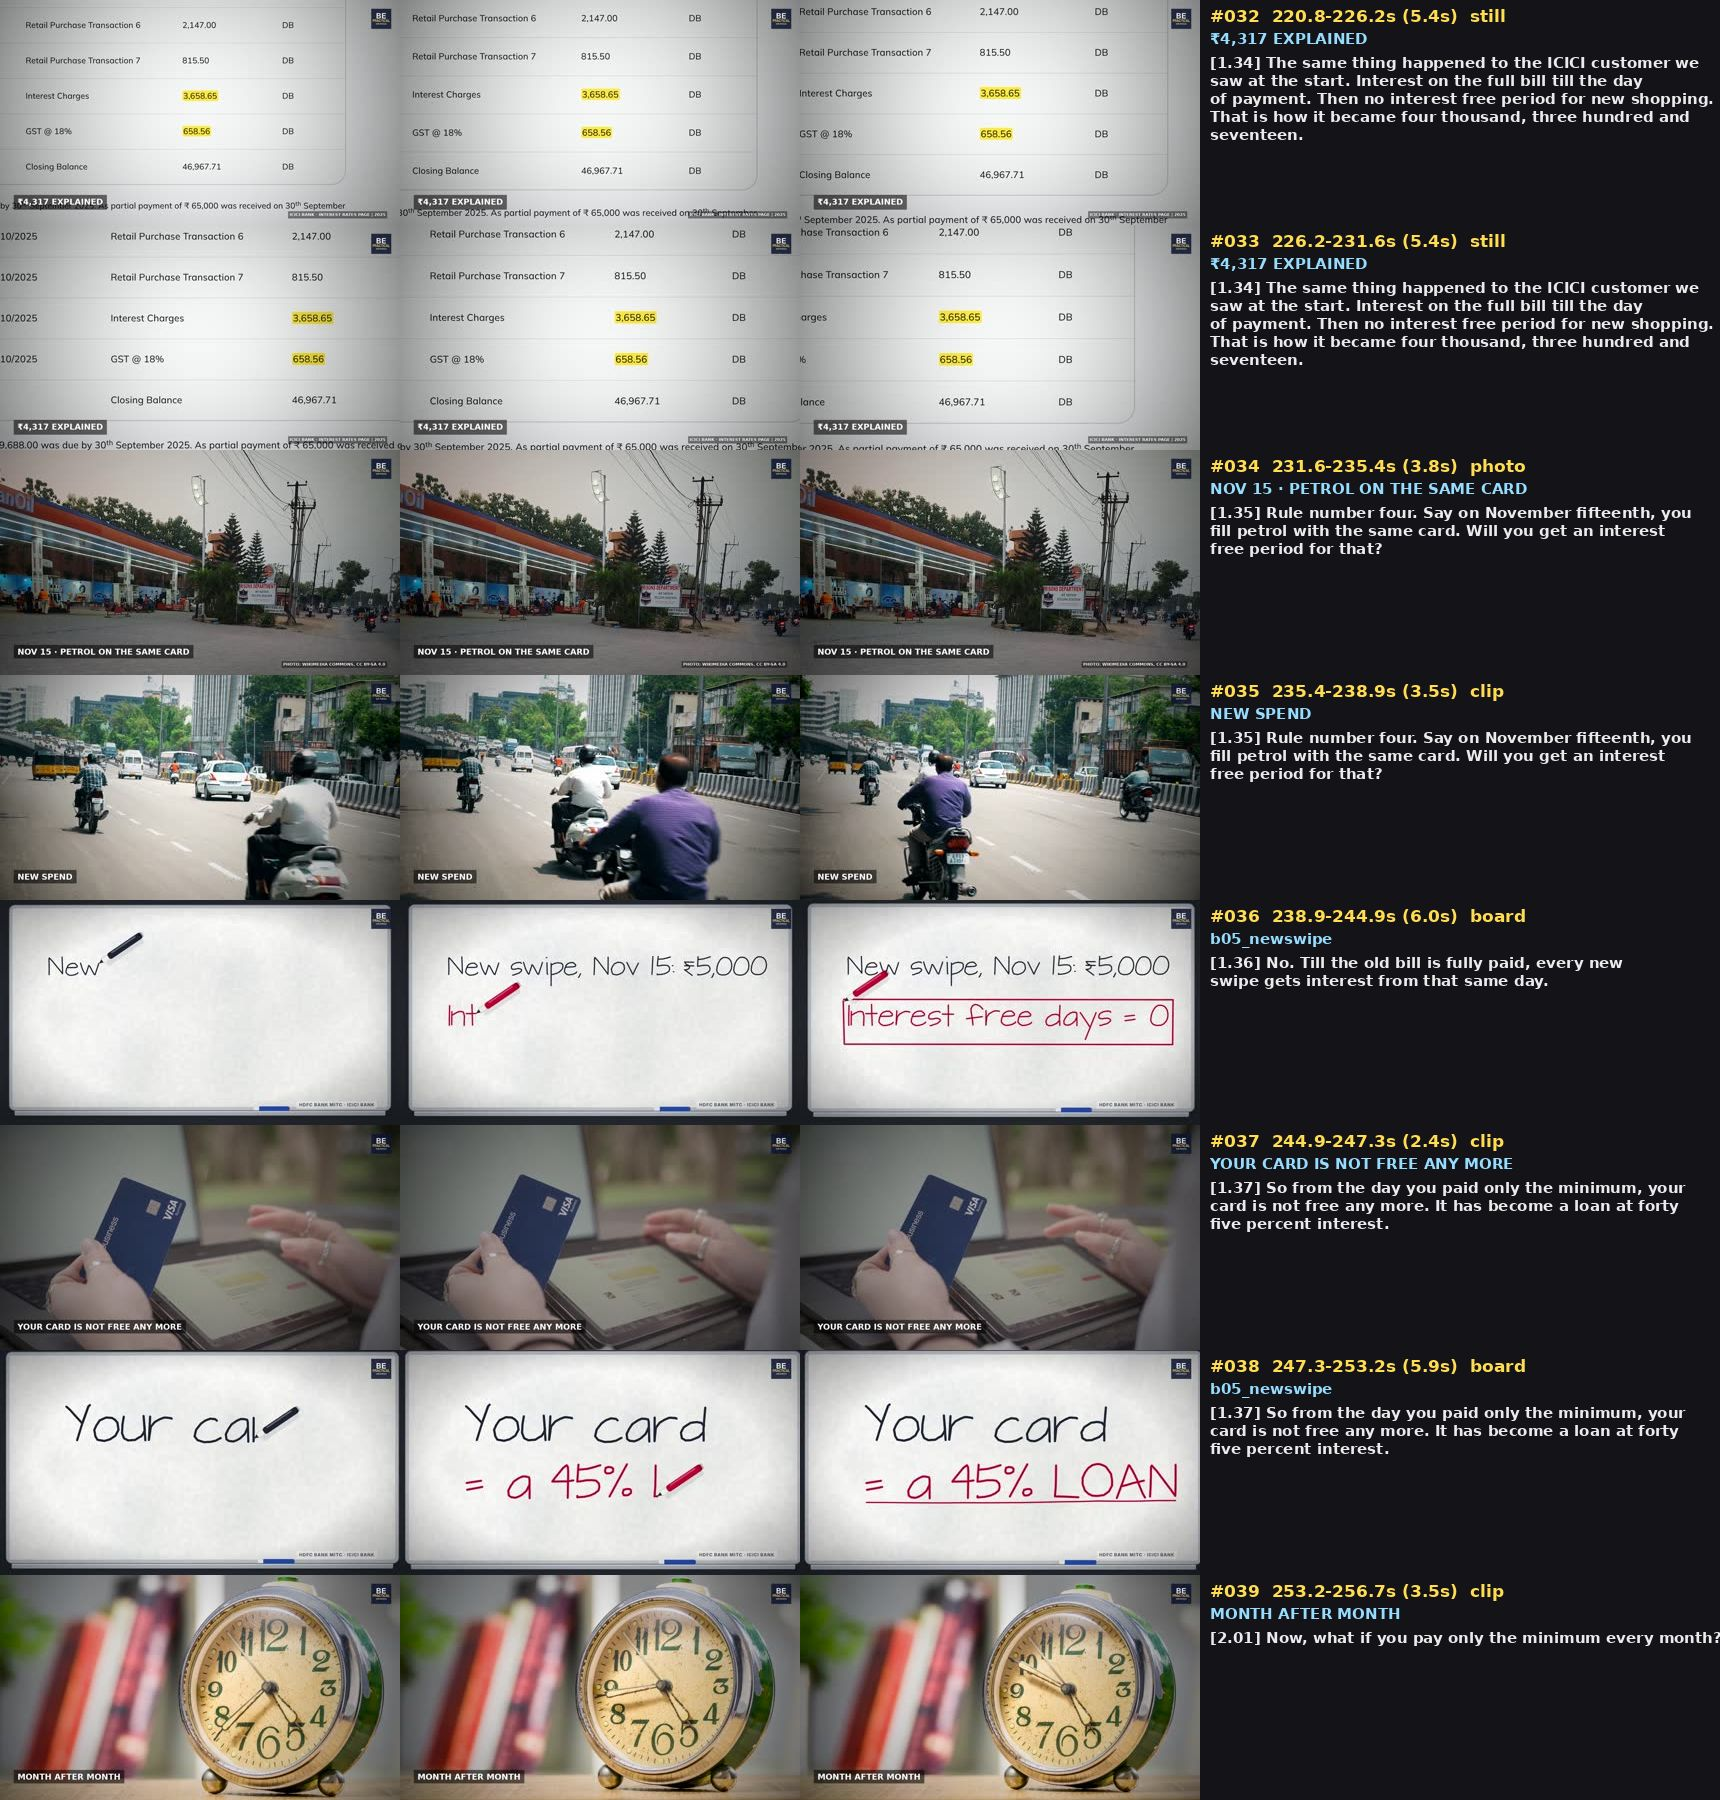
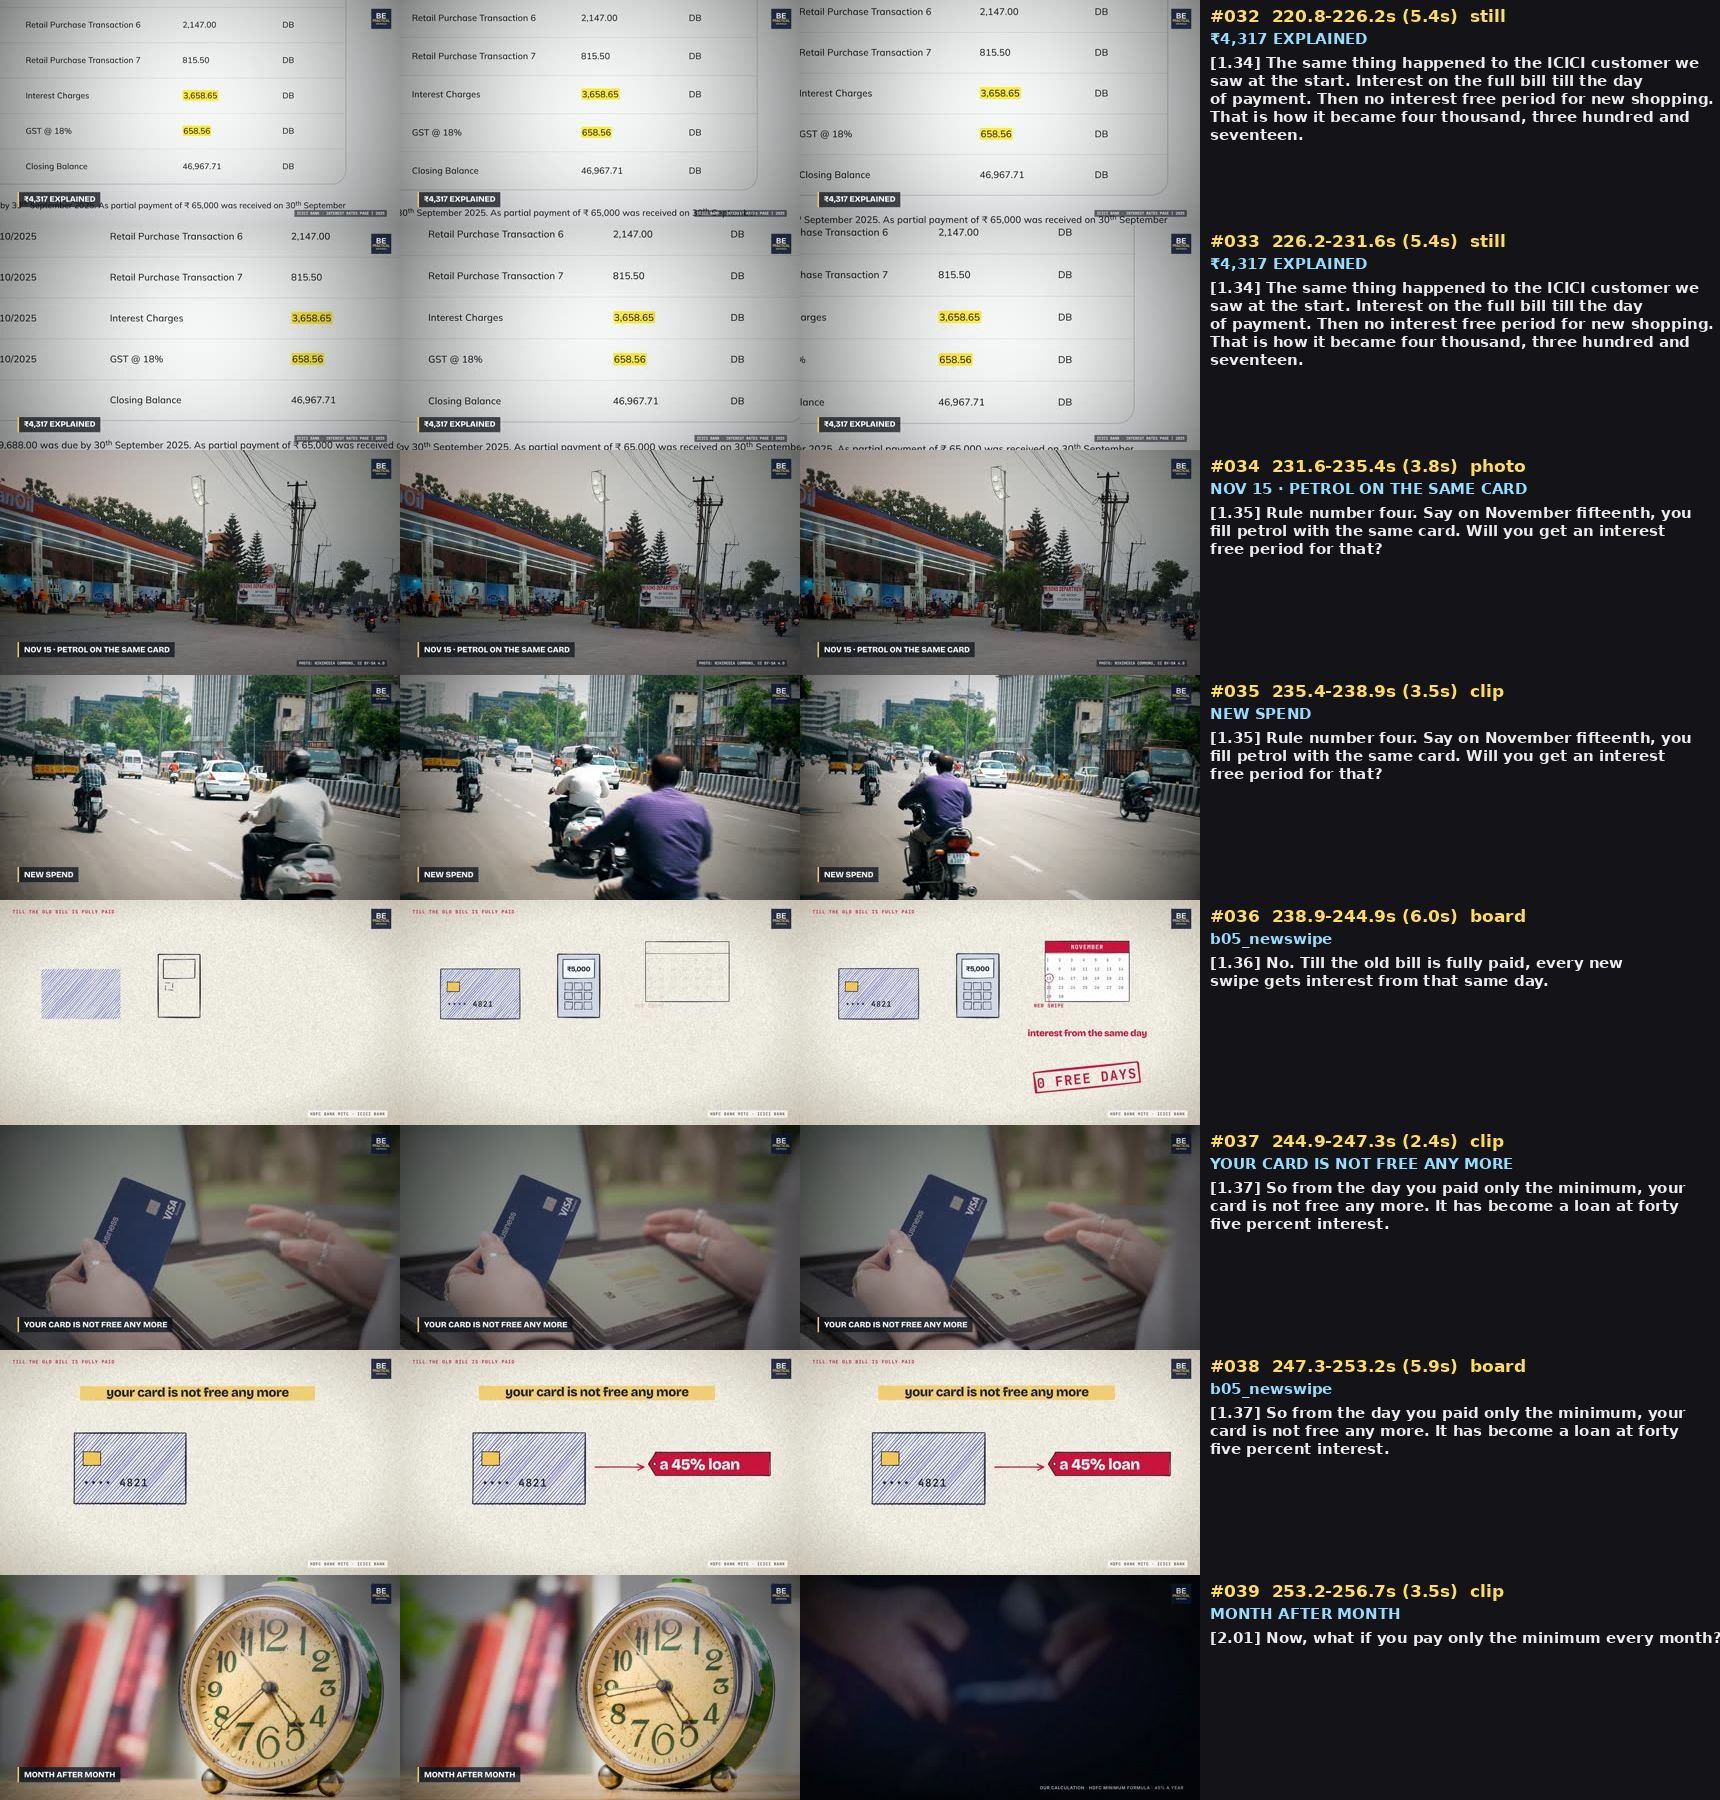
minimum-due: Phase 2 (doodle boards, modern labels, SFX) preview built and reviewed; changelog and review sheets
Claude-Session: https://claude.ai/code/session_014Zjt5GRNojU5VE3p5JbNmE

diff --git a/video/minimumdue/b11_steps12/params.js b/video/minimumdue/b11_steps12/params.js
@@ -14,7 +14,7 @@ window.SCENE = {
     "FULL bill"
    ],
    "at": 0.3,
-   "exit": 5.43
+   "exit": 5.68
   },
   {
    "kind": "calendar",
@@ -30,7 +30,7 @@ window.SCENE = {
    "bandAt": 1.8,
    "at": 0.8,
    "dur": 0.8,
-   "exit": 5.43
+   "exit": 5.68
   },
   {
    "kind": "tag",
@@ -41,7 +41,7 @@ window.SCENE = {
    "size": 56,
    "sub": "DEPENDS ON YOUR CARD",
    "at": 2.4,
-   "exit": 5.43
+   "exit": 5.68
   },
   {
    "kind": "sticky",
@@ -53,7 +53,7 @@ window.SCENE = {
     "Pay as much",
     "as you can"
    ],
-   "at": 5.83,
+   "at": 5.93,
    "exit": 11.12
   },
   {
@@ -156,11 +156,11 @@ window.SCENE = {
    "pop"
   ],
   [
-   5.43,
+   5.68,
    "whoosh"
   ],
   [
-   5.83,
+   5.93,
    "pop"
   ],
   [

diff --git a/projects/minimum-due/build/doodles.py b/projects/minimum-due/build/doodles.py
@@ -150,8 +150,8 @@ DOODLES["b11_steps12"] = dict(tag="HDFC BANK MITC · ICICI BANK", items=[
     *page([dict(kind="sticky", x=140, y=240, n=1, lines=["Pay the", "FULL bill"], at=T("2.20", 0.1)),
            dict(kind="calendar", x=620, y=230, s=0.62, title="NEXT MONTH", band=dict(**{"from": 1, "to": 30, "color": "green"}), bandAt=T("2.20", 1.6), at=T("2.20", 0.6), dur=0.8),
            dict(kind="tag", x=1180, y=330, text="up to 50 days free", color="green", size=56, sub="DEPENDS ON YOUR CARD", at=T("2.20", 2.2))],
-         T("2.21", 0.0) - 0.2),
-    *page([dict(kind="sticky", x=140, y=240, n=2, color="blue", lines=["Pay as much", "as you can"], at=T("2.21", 0.2)),
+         T("2.21", 0.05)),
+    *page([dict(kind="sticky", x=140, y=240, n=2, color="blue", lines=["Pay as much", "as you can"], at=T("2.21", 0.3)),
            dict(kind="slider", x=620, y=520, w=1080, at=T("2.21", 0.8), dur=0.7, knob=[[0, 86], [T("2.21", 1.6), 700, 1.4]]),
            dict(kind="label", x=1160, y=720, text="never below the minimum", size=52, color="red", anchor="middle", at=T("2.21", 3.4))],
          e0 - 0.2),

diff --git a/projects/minimum-due/VISUAL_REFINEMENT_CHANGELOG.md b/projects/minimum-due/VISUAL_REFINEMENT_CHANGELOG.md
@@ -75,3 +75,26 @@ YouTube package: `youtube/`.
 - `thumbnail_A.jpg` and `thumbnail_B.jpg`, in the channel's navy and gold theme.
 
 Phase 2 of the brief was not started; the owner approved the cut as it is.
+
+## Phase 2 (2026-10-12): whiteboard out, doodle in; modern labels
+
+Owner: "white board and writing looks out dated"; after a look study (PLAYBOOK §5.6) the owner chose desk + doodle.
+
+- **All 11 boards still in the refined cut** (b01, b02, b05, b07–b14) are rebuilt as doodle scenes on the new kit
+  `video/lib/doodle/doodle.js`: sketched objects and metaphors drawn on with Rough.js, short typed labels (Bricolage
+  Grotesque), no handwriting. Designs in `build/doodles.py` (same ids, start/end and page-turn moments as `boards.py`, so
+  every cut-in and cutaway still lands); `build/make_doodles.py` writes the scenes; `build/render_doodles.sh` renders them.
+  Examples: ₹4,688 not paid vs ₹4,317 interest on a balance scale; "the minimum is a switch that starts the interest
+  meter" as a real switch and meter; card rotation as three cards spinning in a loop; the three numbers as price tags.
+- **Sound effects** on every doodle item (pop, whoosh, scribble, clink, thud), mixed under the boards by `assemble.py`
+  (`sfx_bus`), synthesised by `video/lib/doodle/make_sfx.py`.
+- **Labels on every clip** are now a dark panel with a gold accent bar in Bricolage Grotesque, and source tags in
+  JetBrains Mono, sized to the text (`overlays()`; fonts from `build/make_fonts.py`). The old DejaVu-on-black boxes are gone.
+- **"Coming up: the full maths"** flash-forwards (1.08) now show the ₹30,481 ledger and the ₹74/₹26 split from the money
+  scenes instead of whiteboard frames.
+- Assets re-fetched in a fresh session with `build/fetch_assets.py` (36 clips from the logged CDN URLs), proofs and sims
+  re-shot from the live pages. Wikimedia Commons rate-limited 4 photos; the preview uses stand-ins for two of them
+  (Supreme Court interior → its second angle; HDFC branch → the HDFC ATM photo), to be restored before the master.
+
+Checked: lint 0 errors on all scenes; per-shot review sheets `qa/review_refined/`; 8:04.8, −14.2 LUFS.
+720p preview: https://gofile.io/d/DUAkZXdt. Not yet done: the 4K master (needs native-4K renders of the 11 scenes).
